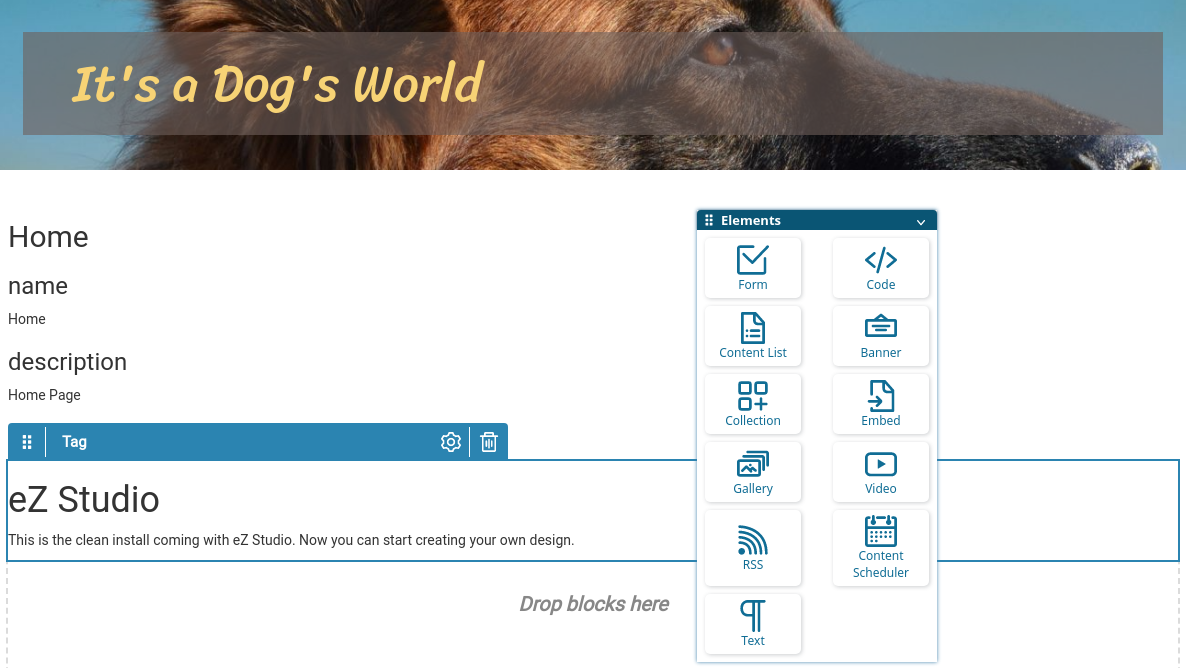
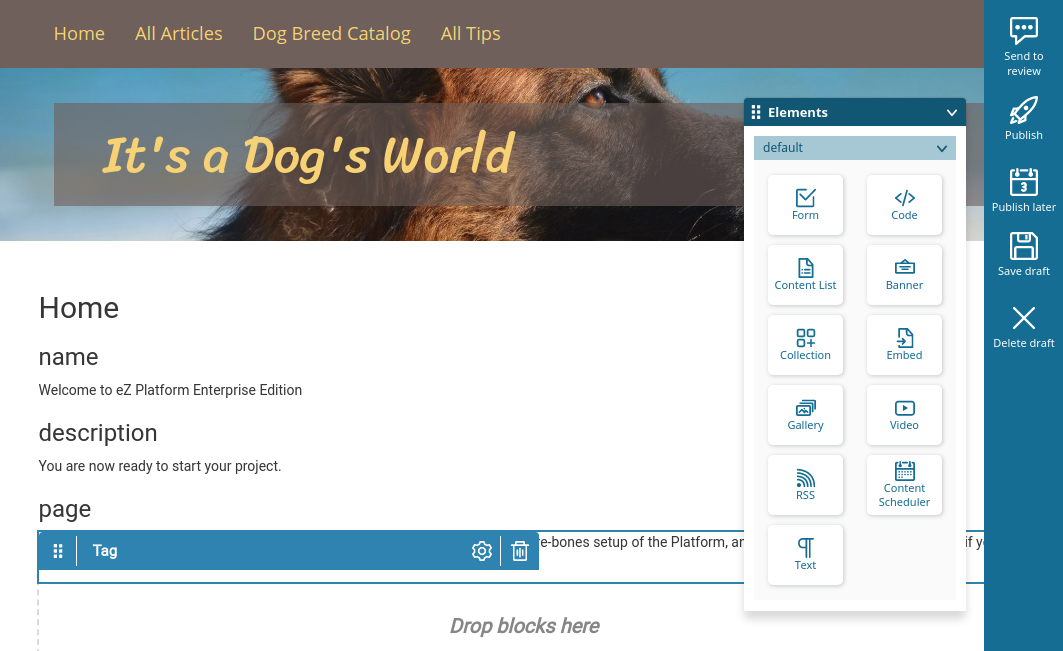
Update beginner EE tutorial to v3.0

diff --git a/docs/tutorials/enterprise_beginner/1_get_a_starter_website.md b/docs/tutorials/enterprise_beginner/1_get_a_starter_website.md
@@ -58,6 +58,8 @@ Edit it to remove the Image Field that has a Content Relation (ezobjectrelation)
 
     For an introduction on how to use templates in eZ Platform, take a look at the [Building a Bicycle Route Tracker in eZ Platform tutorial](../platform_beginner/building_a_bicycle_route_tracker_in_ez_platform.md)
 
+First, delete the `config/packages/ezplatform_welcome_page.yaml` file to remove the welcome page.
+
 Place the [`pagelayout.html.twig`](https://github.com/ezsystems/ezplatform-ee-beginner-tutorial/blob/v3-step1/templates/pagelayout.html.twig) and [`pagelayout_menu.html.twig`](https://github.com/ezsystems/ezplatform-ee-beginner-tutorial/blob/v3-step1/templates/pagelayout_menu.html.twig) files in the `templates` folder. Create a new folder, called `full`, under `templates`. Place further template files in it:
 
 - [`article.html.twig`](https://github.com/ezsystems/ezplatform-ee-beginner-tutorial/blob/v3-step1/templates/full/article.html.twig)
@@ -70,12 +72,12 @@ Place two configuration files in the `config/packages` folder:
 - [`views.yaml`](https://github.com/ezsystems/ezplatform-ee-beginner-tutorial/blob/v3-step1/config/packages/views.yaml)
 - [`image_variations.yaml`](https://github.com/ezsystems/ezplatform-ee-beginner-tutorial/blob/v3-step1/config/packages/image_variations.yaml)
 
-Create an `assets` folder in the project root:
+In the `assets` folder in the project root:
 
 - create a `css` folder and add the following stylesheet: [`style.css`](https://github.com/ezsystems/ezplatform-ee-beginner-tutorial/blob/v3-step1/assets/css/style.css) to it
 - create an `images` subfolder and add the [`header.jpg`](https://github.com/ezsystems/ezplatform-ee-beginner-tutorial/blob/v3-step1/assets/images/header.jpg) file to it
 
-Replace the `webpack.config.js` file in the project root folder with the [provided file](https://github.com/ezsystems/ezplatform-ee-beginner-tutorial/blob/v3-step1/webpack.config.js). Next, in `config/packages/webpack_encore.yaml`, replace the `output_path: '%kernel.project_dir%/public/build'` line with `output_path: '%kernel.project_dir%/public/assets/build'`.
+Replace the `webpack.config.js` file in the project root folder with the [provided file](https://github.com/ezsystems/ezplatform-ee-beginner-tutorial/blob/v3-step1/webpack.config.js).
 
 Next, in the terminal run the commands:
 
@@ -88,20 +90,10 @@ php bin/console cache:clear
 
     Compiling assets with Webpack Encore is explained in [the beginner tutorial](../platform_beginner/3_customize_the_front_page.md#configuring-webpack).
 
-In the `src` folder create a `QueryType` subfolder and add [`LocationChildrenQueryType.php`](https://github.com/ezsystems/ezplatform-ee-beginner-tutorial/blob/v3-step1/src/QueryType/LocationChildrenQueryType.php) and [`QueryType/MenuQueryType.php`](https://github.com/ezsystems/ezplatform-ee-beginner-tutorial/blob/v3-step1/src/QueryType/MenuQueryType.php) to it.
-Add [`MenuController.php`](https://github.com/ezsystems/ezplatform-ee-beginner-tutorial/blob/v3-step1/src/Controller/MenuController.php) to `src/Controller`.
+In the `src` folder create a `QueryType` subfolder and add [`QueryType/MenuQueryType.php`](https://github.com/ezsystems/ezplatform-ee-beginner-tutorial/blob/v3-step1/src/QueryType/MenuQueryType.php) to it.
 
-These files take care of displaying content of folders and of the top menu (read up on it [in the documentation](../../guide/controllers.md#query-controller)).
-
-Additionally, in `config/services.yaml` add the following block under the `services` key:
-
-``` yaml
-App\QueryType\LocationChildrenQueryType:
-    tags:
-        - { name: ezplatform.query_type }
-```
-
-All the files you've placed in `src` are not the scope of this tutorial and we won't go here into detail on how they work.
+This file takes care of displaying the top menu (read up on it [in the documentation](../../guide/controllers.md#query-controller)).
+It is not the scope of this tutorial and we won't go here into detail on how it works.
 
 This is what the structure of the new and modified files should look like (excluding pre-existing files):
 

diff --git a/docs/tutorials/enterprise_beginner/2_prepare_the_landing_page.md b/docs/tutorials/enterprise_beginner/2_prepare_the_landing_page.md
@@ -27,9 +27,12 @@ Here you can check what Content Type it belongs to: it is a Landing Page.
 ![Home Content item is a Landing Page](img/enterprise_tut_home_is_an_lp.png)
 
 The page contains one Code block and is displayed without any template.
-Now go to the Page tab. This is the mode that enables you to work with Pages. Click Edit and you will see that the Home Page has only one zone with the block.
+Now go to the Site tab and click **site**. This is the mode that enables you to work with Pages. Click Edit and you will see that the Home Page has only one zone with the block.
 
 ![Empty Page with default layout](img/enterprise_tut_empty_single_block.png)
+
+Remove the Tag block. Hover over it and select the trash icon from the menu.
+Switch to editing Page Fields and change the Title of the page to "Home".
 
 The design for the website you are making needs a layout with two zones: a main column and a narrower sidebar.
 eZ Enterprise provides only a one-zone default layout, so you need to create a new one.
@@ -145,9 +148,6 @@ The empty zones you defined in the template will be visible in the editor.
     If the new layout is not available when editing the Page, you may need to clear the cache (using `php bin/console cache:clear`) and/or reload the app.
 
 ![Empty page with new layout](img/enterprise_tut_new_layout.png)
-
-You can also remove the block with "eZ Studio".
-Hover over it and select the trash icon from the menu.
 
 Publish the Home Page. You will notice that it still has some additional text information.
 This is because the looks of a Page are controller by two separate template files, and you have only prepared one of those.

diff --git a/docs/tutorials/enterprise_beginner/5_create_newsletter_form.md b/docs/tutorials/enterprise_beginner/5_create_newsletter_form.md
@@ -45,7 +45,7 @@ Create an `templates/blocks/form/newsletter.html.twig` file:
 <div class="row">
     <div class="block-form {{ block_class }}">
         {{ fos_httpcache_tag('relation-location-' ~ locationId) }}
-        {{ render(controller('ez_content:viewLocation', {
+        {{ render(controller('ez_content:viewAction', {
             'locationId': locationId,
             'viewType': 'embed'
         })) }}
@@ -81,7 +81,7 @@ The block remains unchanged, but the results will be visible when you add CSS st
 At this point, you need to change the field template.
 This results in alternating the position and design of the Form fields.
 
-Create a `templates/form_field.html.twig` file:
+Create a `templates/fields/form_field.html.twig` file:
 
 ``` html+twig
 {% block ezform_field %}
@@ -103,7 +103,7 @@ In `config/packages/views.yaml`, at the same level as `pagelayout`, add:
 
 ``` yaml
 field_templates:
-    - { template: "form_field.html.twig", priority: 30 }
+    - { template: fields/form_field.html.twig, priority: 30 }
 ```
 
 Clear the cache by running `bin/console cache:clear` and refresh the Page to see the results.
